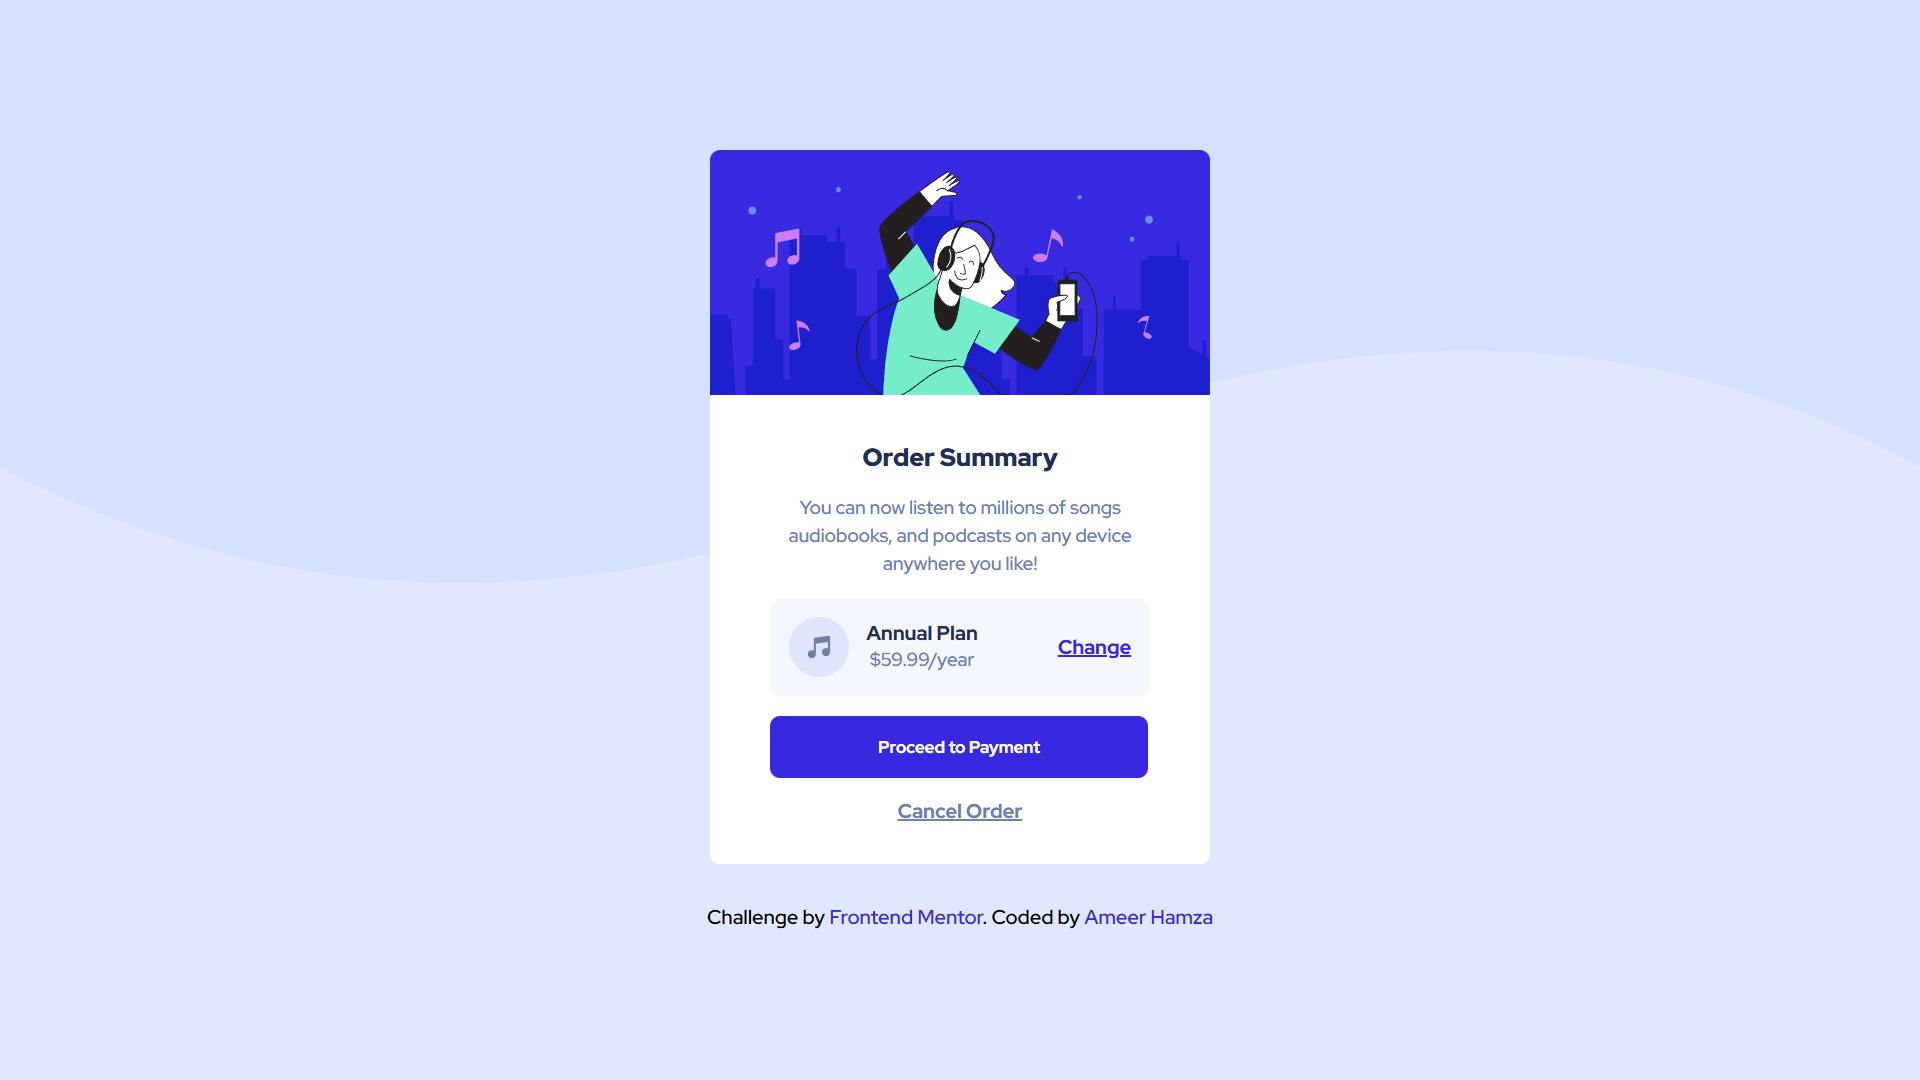
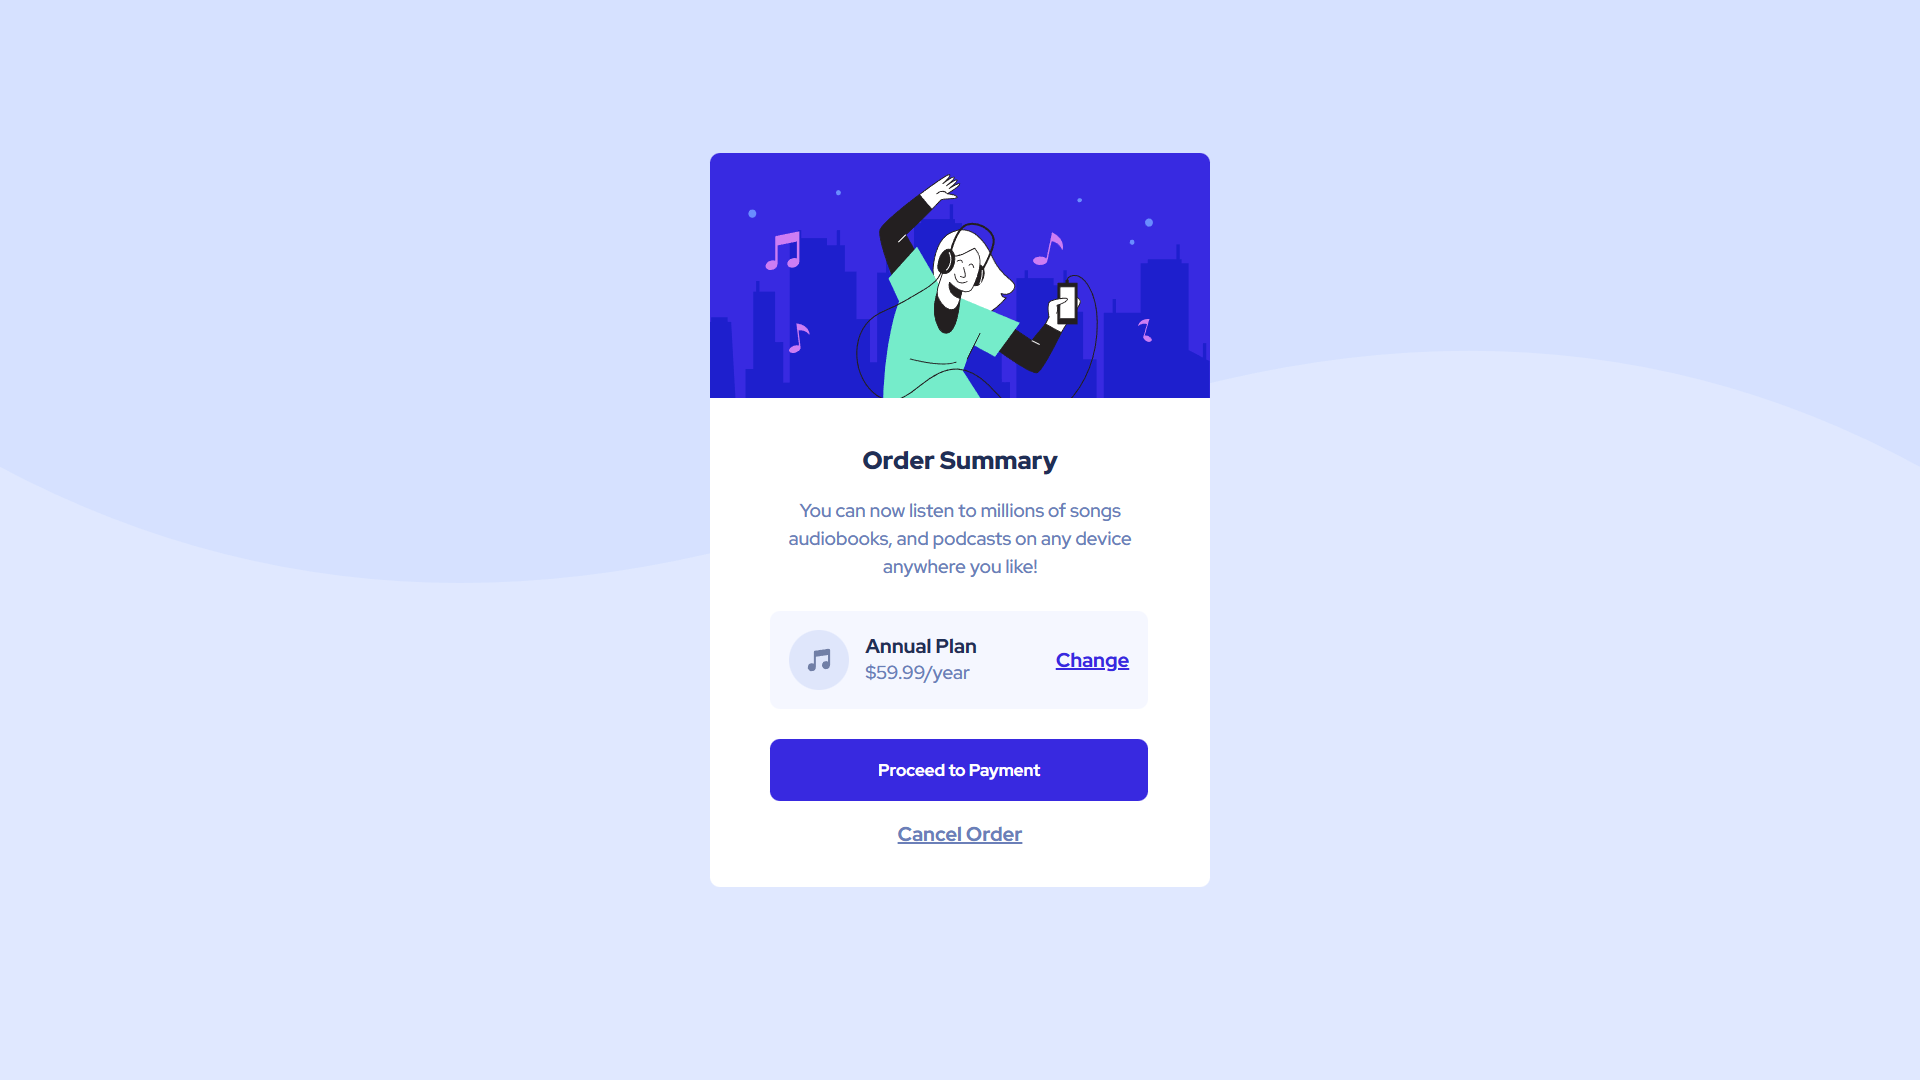
update 0.0.5

diff --git a/order-summary-component-main/style.css b/order-summary-component-main/style.css
@@ -70,16 +70,18 @@ p{
 }
 
 .plan-container{
+    width: 90%;
     background-color: var(--vary-pale-blue);
     display: flex;
     justify-content: space-between;
     align-items: center;
-    margin: 1rem;
+    margin: 1.5rem 1rem;
     padding: 15px;
     border-radius: .5rem;
 }
 
 .plan-details{
+    text-align: left;
     position: relative;
     right: 25px;
     font-size: 13px;
@@ -157,19 +159,19 @@ button:hover{
         width: 40px;
     }
 
-    .plan-details, .plan-details p{
+    .plan-details h2, .plan-details p{
+        font-size: 13px;
+    }
+    .plan-details {
+        text-align: left;
         position: relative;
-        right: 5px;
+        right: 15px;
         font-size: 10px;
     }
 
     .change, .cancel{
         font-size: 11px;
     }
- 
 
-    .attribution {
-        font-size: 10px;
-    }
 
 }
